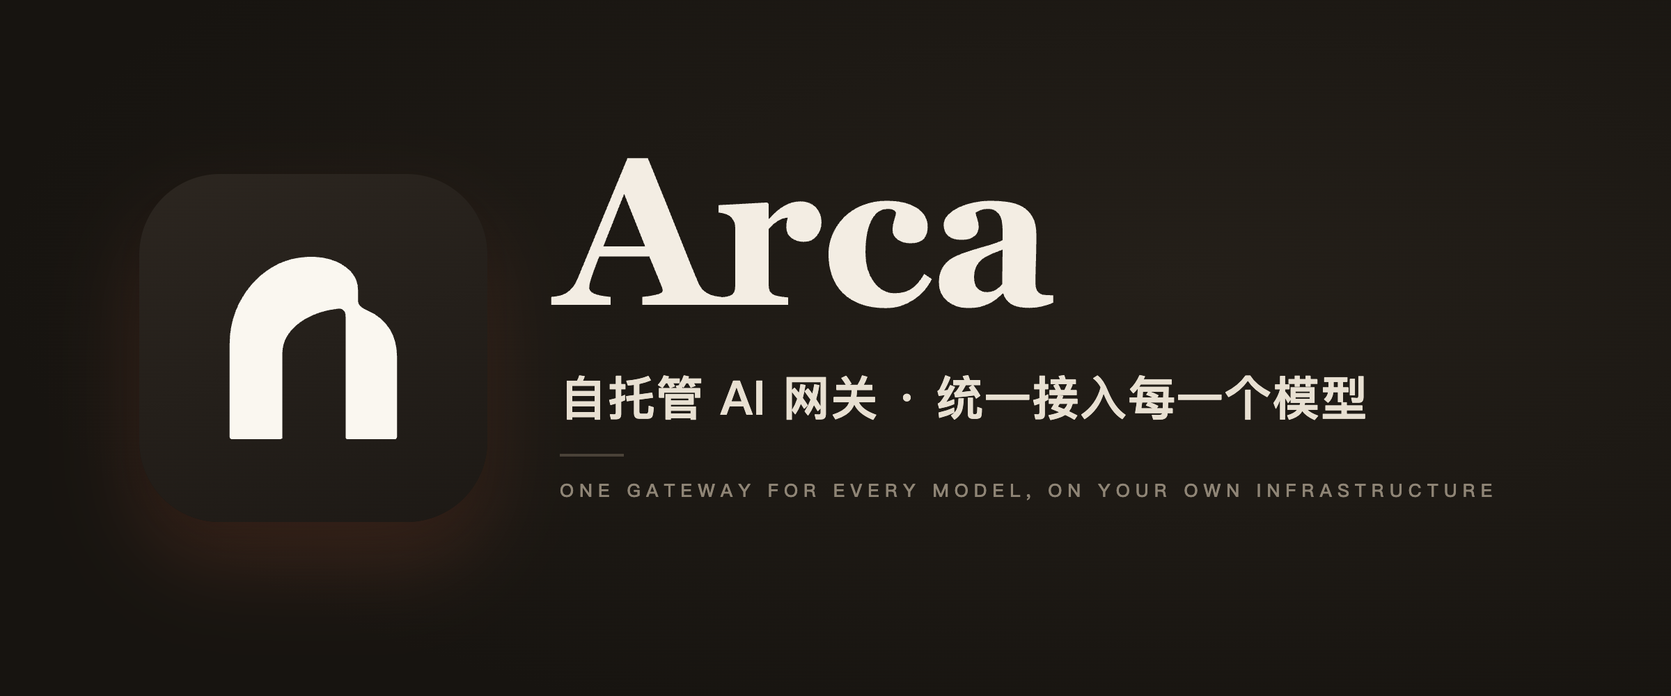
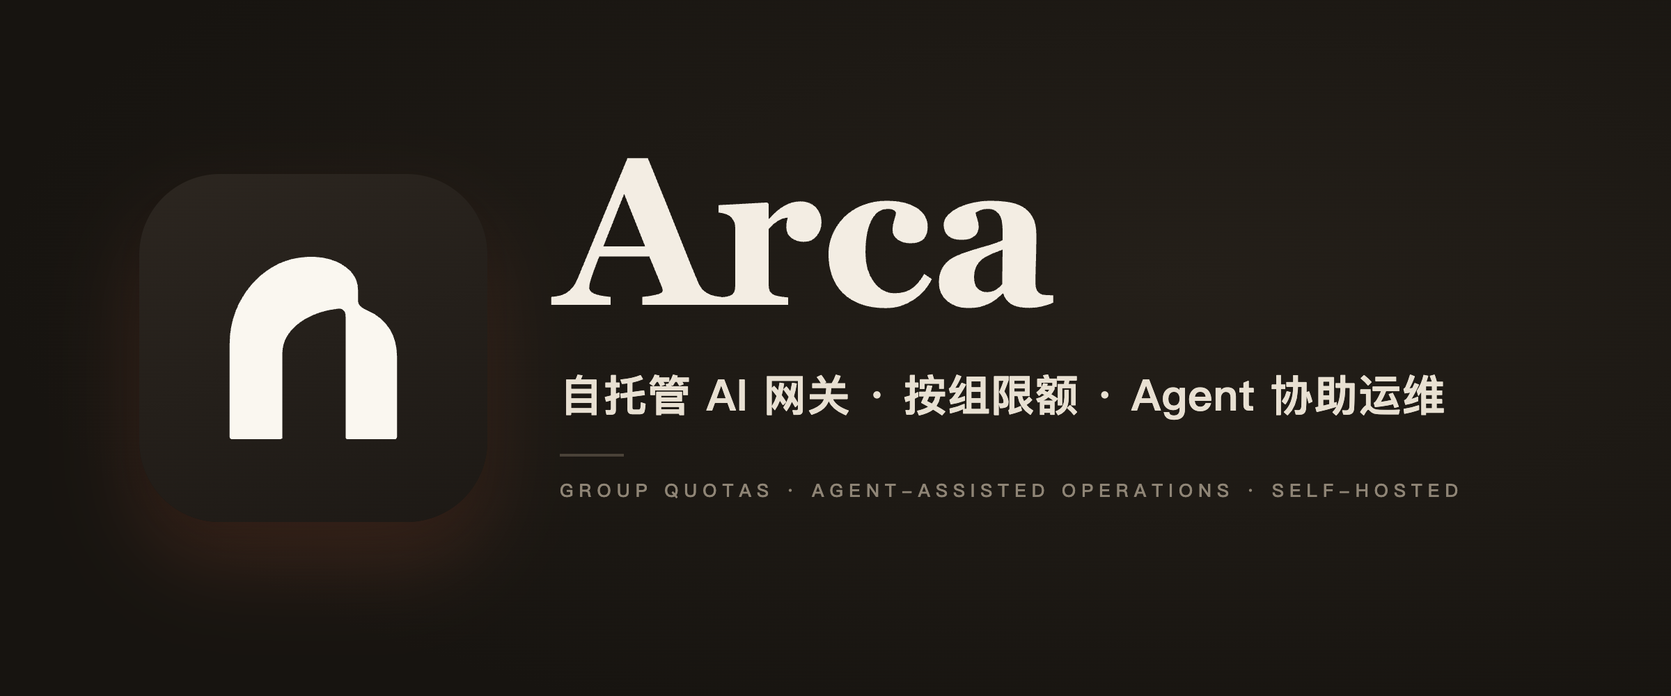
docs(readme): present Arca's differences from Aether
README (zh/en) now leads with the two things that set Arca apart: group
quotas instead of commercial billing, and feedback plus an admin MCP for
agent-assisted operations. It adds a comparison table with Aether, a
quota screenshot, a status note for features still in acceptance, and
refreshes the hero banner and architecture diagram (Gemini native is an
upstream adapter, not a client entry point).

Changed region(s): [[0.3438, 0.527, 0.875, 0.62], [0.3438, 0.682, 0.9062, 0.713]]

diff --git a/README.en.md b/README.en.md
@@ -1,12 +1,12 @@
 <p align="center">
   <picture>
     <source media="(prefers-color-scheme: dark)" srcset="docs/assets/hero-dark.png" />
-    <img src="docs/assets/hero-light.png" alt="Arca — a self-hosted AI gateway" width="100%" />
+    <img src="docs/assets/hero-light.png" alt="Arca — a self-hosted AI gateway with group quotas and agent-assisted operations" width="100%" />
   </picture>
 </p>
 
 <p align="center">
-  One entry point for Claude, OpenAI, Gemini and their CLI clients — authentication, conversion, scheduling and quotas, all on your own servers.
+  One entry point for Claude, OpenAI and Gemini. Quotas are allocated to users and groups; day-to-day operations are handled through feedback and your own agent.
 </p>
 
 <p align="center">
@@ -21,10 +21,9 @@
 
 <br />
 
-> **One endpoint, every model.**
-> Models now come from many places: official APIs, subscription accounts, third-party compatible services — each with its own protocol, quota and reliability.
-> Clients just want the OpenAI, Claude or Gemini interface they already know; operators want one controllable, auditable entry point.
-> Arca sits between the two and keeps routing, conversion, limits and metering in one place.
+> **Quotas for people, operations for agents.**
+> A team using AI internally doesn't need a checkout counter. It needs three answers: who may use which models, how much can be spent in a month, and who looks into it when something breaks.
+> Arca removes top-ups and payments and puts quotas on users and groups; user feedback, an admin MCP and your own agent then take over routine diagnosis and maintenance.
 
 <p align="center">
   <img src="docs/assets/overview.jpg" alt="Arca operations overview: QPS, SLA, time to first token, concurrency and queues" width="88%" />
@@ -35,28 +34,61 @@
 <table>
   <tr>
     <td width="33%" valign="top">
-      <h3>Protocol-agnostic</h3>
-      OpenAI Chat / Responses, Claude Messages and Gemini <code>generateContent</code> are all first-class entry points, with two-way conversion between them covering streaming, tool calls and reasoning content. Same-protocol requests pass through natively.
+      <h3>Quotas, not commerce</h3>
+      No top-ups, plans, payments or referral rewards. Administrators set USD budgets per user and per group — rolling five hours, weekly and monthly — and can go down to a single model when needed.
     </td>
     <td width="33%" valign="top">
-      <h3>Reliable and controllable</h3>
-      Candidates are ranked by priority, health and cache affinity; failures retry and fail over automatically. Subscription-style upstreams are managed as account pools with live quota and status, and unavailable accounts are dropped automatically.
+      <h3>Agents in the loop</h3>
+      Users file feedback in the app; an agent reads and diagnoses it through the admin MCP, and changes only happen after a preview and a single-use confirmation. Authority is always "current user role ∩ key scopes".
     </td>
     <td width="33%" valign="top">
-      <h3>Self-hosted</h3>
-      One Rust binary serves both the API and the frontend. It needs PostgreSQL; Redis is optional. Data and keys stay in your own environment — generated and held by you.
+      <h3>Protocol-agnostic, dependable</h3>
+      Clients use OpenAI Responses, Claude Messages or OpenAI Chat; the gateway converts and schedules to any upstream, retrying and failing over when requests fail.
     </td>
   </tr>
 </table>
 
+## How Arca differs from Aether
+
+Arca is derived from [Aether](https://github.com/fawney19/Aether), with deliberately different goals:
+
+| | Aether | Arca |
+| --- | --- | --- |
+| Use case | Built-in commercial features, can be operated publicly | Internal team use, quotas allocated by administrators |
+| Quota model | Wallet balance, plans and paid daily quotas | USD budgets per group and per user, with optional model-family or per-model sub-pools |
+| Payments and billing | Top-ups, refunds, redeem codes, plan purchase, referral rewards, payment gateways | Removed; the routes return 404 in internal mode. Upstream cost and usage are still recorded for accounting |
+| Operations | Manual work in the console | User feedback plus an admin MCP; agents assist within permission, preview and confirmation limits |
+| Client protocols | OpenAI, Claude and Gemini entry points | Primarily OpenAI Responses (including Codex), Claude Messages and OpenAI Chat; native Gemini is an upstream adapter |
+
+> Existing financial history is neither deleted nor migrated; internal requests simply are not charged. See [internal gateway mode](docs/operations/internal-gateway.md).
+
 ## Features
+
+### Group quotas
+
+- **USD budgets**: each group and each user can have rolling five-hour, weekly and monthly total budgets, with sub-pools per model family or per model (including daily limits).
+- **Clear inheritance**: a personal allocation fully replaces the group allocation; across groups, the larger value wins per window; `unlimited` is an explicit exemption.
+- **Grants and quotas are separate**: a quota entry never grants model access; model permissions are configured on users and groups.
+- **Concurrency-safe**: admission and reservation happen in PostgreSQL; policy writes carry a version check, so a stale write returns 409 instead of overwriting someone else's change.
+
+<p align="center">
+  <img src="docs/assets/quota.jpg" alt="User benefits: five-hour, weekly and monthly allocations per group and per user" width="88%" />
+</p>
+
+### Feedback-driven, agent-assisted operations
+
+- **User feedback**: an issue-style discussion with category, description, linked model or request, public or private visibility and an append-only history; users and administrators each have their own entry. See [feedback](docs/operations/feedback.md).
+- **Request diagnostics**: feedback can carry a request-diagnostics summary, which requires both feedback-write and monitoring-read permission. See [request diagnostics](docs/operations/request-diagnostics.md).
+- **Admin MCP**: a built-in `/mcp` endpoint covers users, grants, providers, models, routing, pools, statistics and health; writes are preview-only by default and execution needs a single-use confirmation ticket bound to the exact arguments. See [Agent MCP](docs/operations/agent-mcp.md).
+- **Bounded agents**: no arbitrary URL, SQL, shell or container commands; credential plaintext is never returned; logs and announcements are treated as untrusted data; feedback content is never execution authority.
+- **Model compatibility tests**: run synthetic connectivity and compatibility tests against provider models through the MCP. See [model compatibility](docs/operations/model-compatibility.md).
 
 ### Unified access and protocol conversion
 
-- **Multiple protocol entry points**: OpenAI Chat / Responses / Realtime, Claude Messages, Gemini `generateContent`, plus Embeddings, Rerank, image and video tasks, and Gemini Files.
-- **Two-way conversion**: requests and responses convert between OpenAI, Claude and Gemini; the conversion contract and field coverage matrix are published in [docs/api](docs/api/).
+- **Client protocols**: OpenAI Responses (including Codex), Claude Messages, OpenAI Chat Completions; Embeddings, Rerank and others are in [docs/api](docs/api/).
+- **Two-way conversion**: requests and responses convert between OpenAI, Claude and Gemini, including streaming, tool calls and reasoning content; the conversion contract and field coverage matrix are published in [docs/api](docs/api/).
 - **Per-model interface restriction**: restrict a model mapping to specific interface types and endpoints — for example, make an upstream model use only the native Gemini interface and bypass an incomplete compatibility layer.
-- **Model catalog and mappings**: global models are decoupled from each provider's real model names, with aliases, tiered pricing and model directives.
+- **Model catalog and mappings**: global models are decoupled from each provider's real model names, with aliases and tiered pricing.
 
 ### Scheduling and reliability
 
@@ -70,35 +102,23 @@
   <img src="docs/assets/health.jpg" alt="Health monitoring from endpoint, model and provider perspectives" width="49%" />
 </p>
 
-### Multi-tenancy, quotas and cost
+### Operations and security
 
-- **Users, groups and API keys** with per-model grants, IP allow/deny lists and audit logs.
-- **Quotas**: rolling and calendar request caps and shared monthly cost budgets; users without an allocation are denied by default. See [internal gateway mode](docs/operations/internal-gateway.md).
-- **Wallets and billing**: billing plans, wallets, referral rewards and payment gateways, plus cost and cache-savings analysis.
-
-### Operations and integrations
-
-- **Admin console**: providers and endpoints, models, routing strategies, users and keys, usage and cost, system settings; Chinese and English UI.
-- **Admin MCP**: a built-in `/mcp` endpoint using user-bound admin keys, with preview-and-confirm for writes. See [Agent MCP](docs/operations/agent-mcp.md).
 - **One-step Linux setup**: generate a one-time command on the API keys page to configure Codex CLI / Claude Code on a server. See the [setup guide](docs/operations/linux-client-setup.md).
 - **Tunnel proxy node**: deployed on an overseas VPS to relay outbound traffic. See the [Tunnel docs](apps/aether-tunnel/README.md).
-- **Observability**: per-request usage and timing, request diagnostics, request body viewer, Prometheus metrics.
-
-### Security
-
-- Upstream credentials and sensitive settings are stored encrypted; backups use an encrypted format with key identifiers and support [offline restore](docs/configuration.md#s3-备份离线恢复).
-- Body-size and concurrency budgets, outbound DNS and proxy policy, PII redaction and restoration, LDAP and OAuth sign-in.
+- **Observability**: per-request usage and timing, request body viewer, Prometheus metrics; audit logs and IP allow/deny lists.
+- **Security**: upstream credentials are stored encrypted; backups use an encrypted format with key identifiers and support [offline restore](docs/configuration.md#s3-备份离线恢复); body-size and concurrency budgets, outbound DNS and proxy policy, PII redaction and restoration, LDAP and OAuth sign-in.
 
 ## Architecture
 
 <p align="center">
   <picture>
     <source media="(prefers-color-scheme: dark)" srcset="docs/architecture/architecture-dark.svg" />
-    <img src="docs/architecture/architecture-light.svg" alt="Arca architecture: clients pass through the gateway for authentication, resolution, scheduling, conversion and metering before reaching upstreams" width="100%" />
+    <img src="docs/architecture/architecture-light.svg" alt="Arca architecture: clients pass through the gateway for authentication, resolution, scheduling, conversion and quota metering before reaching upstreams" width="100%" />
   </picture>
 </p>
 
-A request passes through: authentication and admission → model resolution → candidate selection and failover → protocol conversion (if needed) → usage and billing. Besides official APIs, the gateway ships provider templates for `codex`, `claude_code`, `gemini_cli`, `antigravity`, `vertex_ai`, `kiro`, `chatgpt_web`, `grok`, `windsurf` and `opencode_go`, and supports any OpenAI-, Claude- or Gemini-compatible custom endpoint.
+A request passes through: authentication and admission → model resolution → candidate selection and failover → protocol conversion (if needed) → quota and usage. Besides official APIs, the gateway ships provider templates for `codex`, `claude_code`, `gemini_cli`, `antigravity`, `vertex_ai`, `kiro`, `chatgpt_web`, `grok`, `windsurf` and `opencode_go`, and supports any OpenAI-, Claude- or Gemini-compatible custom endpoint.
 
 ## Quick start
 
@@ -119,7 +139,7 @@ cp .env.example .env && chmod 600 .env
 docker compose up -d
 ```
 
-Open `http://localhost:8084`, sign in with `ADMIN_USERNAME` / `ADMIN_PASSWORD` from `.env`, then add providers, models and API keys. When upgrading, do not replace the generated secrets; the database schema migrates automatically on start, and `make db-status` lets you inspect it first.
+Open `http://localhost:8084`, sign in with `ADMIN_USERNAME` / `ADMIN_PASSWORD` from `.env`, then add providers, models, groups and quotas, and issue API keys to users. When upgrading, do not replace the generated secrets; the database schema migrates automatically on start, and `make db-status` lets you inspect it first.
 
 More: [configuration reference](docs/configuration.md) (Chinese) · [release notes and building your own image](docs/ARCA.md) · [Linux client setup](docs/operations/linux-client-setup.md).
 
@@ -135,9 +155,13 @@ npm ci
 VITE_DEMO_MODE=true npm run dev
 ```
 
-Open the address printed in the terminal, sign out of the default demo user, then sign in as `admin@demo.arca.io` / `demo123` for the administrator view. All data is simulated and no real calls are made.
+Open the address printed in the terminal, sign out of the default demo user, then sign in as `admin@demo.arca.io` / `demo123` for the administrator view. All data is simulated and no real calls are made; the feedback and MCP pages have no mock data in demo mode.
 
 </details>
+
+## Status
+
+Internal gateway mode (group quotas), user feedback and the admin MCP are still in development and acceptance, and have not been validated in production. Known remaining work is listed in the [internal gateway document](docs/operations/internal-gateway.md#remaining-roadmap). Read the [release notes](docs/ARCA.md) before upgrading.
 
 ## Documentation
 
@@ -145,8 +169,8 @@ Open the address printed in the terminal, sign out of the default demo user, the
 | --- | --- |
 | Configuration, environment variables, S3 backup restore | [docs/configuration.md](docs/configuration.md) (Chinese) |
 | Release notes and building your own image | [docs/ARCA.md](docs/ARCA.md) |
-| Internal gateway mode · admin MCP · routing and failover | [internal-gateway](docs/operations/internal-gateway.md) · [agent-mcp](docs/operations/agent-mcp.md) · [routing-failover](docs/operations/routing-failover.md) |
-| Model compatibility testing · request diagnostics | [model-compatibility](docs/operations/model-compatibility.md) · [request-diagnostics](docs/operations/request-diagnostics.md) |
+| Internal gateway mode · user feedback · admin MCP | [internal-gateway](docs/operations/internal-gateway.md) · [feedback](docs/operations/feedback.md) · [agent-mcp](docs/operations/agent-mcp.md) |
+| Routing and failover · model compatibility · request diagnostics | [routing-failover](docs/operations/routing-failover.md) · [model-compatibility](docs/operations/model-compatibility.md) · [request-diagnostics](docs/operations/request-diagnostics.md) |
 | Protocols: Embeddings · Rerank · Responses WebSocket | [embeddings](docs/api/embeddings.md) · [rerank](docs/api/rerank.md) · [WebSocket-Mode](docs/WebSocket-Mode.md) |
 | Format conversion contract and coverage | [passthrough contract](docs/api/format-passthrough-contract.md) · [field matrix](docs/api/format-field-coverage-matrix.md) · [interface definitions](docs/api/provider-interface-definitions.md) |
 | Runbooks | [Redis runtime](docs/operations/redis-runtime-runbook.md) · [TLS fingerprint](docs/operations/tls-fingerprint-capture.md) · [all](docs/operations/) |

diff --git a/README.md b/README.md
@@ -1,12 +1,12 @@
 <p align="center">
   <picture>
     <source media="(prefers-color-scheme: dark)" srcset="docs/assets/hero-dark.png" />
-    <img src="docs/assets/hero-light.png" alt="Arca — 自托管 AI 网关" width="100%" />
+    <img src="docs/assets/hero-light.png" alt="Arca — 自托管 AI 网关，按组限额，Agent 协助运维" width="100%" />
   </picture>
 </p>
 
 <p align="center">
-  一个入口，统一接入 Claude、OpenAI、Gemini 与各类 CLI 客户端——鉴权、转换、调度、配额，都在你自己的服务器上。
+  一个入口接入 Claude、OpenAI、Gemini；额度按用户和用户组分配，日常运维交给反馈与你的 Agent。
 </p>
 
 <p align="center">
@@ -21,10 +21,9 @@
 
 <br />
 
-> **One endpoint, every model.**
-> 模型的来源越来越多：官方 API、订阅账号、各家兼容服务——协议不同，额度不同，稳定性也不同。
-> 客户端只想用熟悉的 OpenAI、Claude、Gemini 接口，运维只想要一个可控、可审计的入口。
-> Arca 站在两者之间，把选路、转换、限额和计量收在同一个地方。
+> **Quotas for people, operations for agents.**
+> 团队内部用 AI，缺的不是收银台，而是三件事：谁能用哪些模型、一个月最多花多少、出了问题谁来看。
+> Arca 去掉了充值与支付，把额度落到用户和用户组；再让用户反馈、管理 MCP 和你自己的 Agent 接手日常排查与维护。
 
 <p align="center">
   <img src="docs/assets/overview.jpg" alt="Arca 运维总览：QPS、SLA、首字延迟、并发与队列" width="88%" />
@@ -35,28 +34,61 @@
 <table>
   <tr>
     <td width="33%" valign="top">
-      <h3>协议无关</h3>
-      OpenAI Chat / Responses、Claude Messages、Gemini <code>generateContent</code> 都是一等入口，并在三者之间双向转换，覆盖流式、工具调用与推理内容。同协议请求原生直通，不做多余改写。
+      <h3>没有商业化，只有额度</h3>
+      没有充值、套餐、支付与邀请奖励。管理员按用户和用户组设置美元预算：滚动 5 小时、每周、每月，必要时再细到单个模型。
     </td>
     <td width="33%" valign="top">
-      <h3>稳定可控</h3>
-      按优先级、健康度与缓存亲和选路，失败自动重试并切换候选；订阅类上游用号池管理，额度与状态实时可见，不可用账号自动摘除。
+      <h3>Agent 参与运维</h3>
+      用户在应用里提交反馈，Agent 通过管理 MCP 读取、诊断，并在预览与单次确认之后执行变更。权限始终是「当前用户角色 ∩ Key 范围」。
     </td>
     <td width="33%" valign="top">
-      <h3>自托管</h3>
-      一个 Rust 二进制同时提供 API 与前端，依赖 PostgreSQL，Redis 可选。数据与密钥都在你自己的环境里，由你生成、由你保管。
+      <h3>协议无关，稳定可控</h3>
+      客户端使用 OpenAI Responses、Claude Messages 或 OpenAI Chat，网关负责转换并调度到任意上游，失败时自动重试与切换。
     </td>
   </tr>
 </table>
 
+## 与 Aether 的不同
+
+Arca 源自 [Aether](https://github.com/fawney19/Aether)，两者在定位上刻意不同：
+
+| | Aether | Arca |
+| --- | --- | --- |
+| 使用场景 | 内置商业化能力，可对外运营 | 团队内部使用，管理员统一分配额度 |
+| 额度模型 | 钱包余额、套餐与付费日额度 | 用户组与个人的美元预算，可按模型家族或单模型设子池 |
+| 支付与计费 | 充值、退款、兑换码、套餐购买、邀请奖励、支付网关 | 已移除，相关接口在内部模式下返回 404；仍记录上游成本与用量用于核算 |
+| 运维方式 | 在控制台手动操作 | 用户反馈 + 管理 MCP，Agent 在权限、预览与确认的约束下协助 |
+| 客户端协议 | OpenAI、Claude、Gemini 多种入口 | 以 OpenAI Responses（含 Codex）、Claude Messages、OpenAI Chat 为主；Gemini 原生接口作为上游适配 |
+
+> 已有的历史财务数据不会被删除或迁移，内部请求只是不再扣费。细节见 [内部网关模式](docs/operations/internal-gateway.md)。
+
 ## 功能
+
+### 用户分组限额
+
+- **美元预算**：每个用户组和个人都可以设置滚动 5 小时、每周、每月的总额度，并按模型家族或单模型划出子池（可含每日额度）。
+- **继承规则明确**：个人配额整体替换所属组的配额；多个组之间，每个时间窗口取较大值；`unlimited` 是显式豁免。
+- **授权与额度分离**：额度条目不会授予模型访问权，模型权限在用户和用户组上单独配置。
+- **并发安全**：准入与预留在 PostgreSQL 中完成；策略写入带版本检查，过期写入返回 409，不会覆盖他人的修改。
+
+<p align="center">
+  <img src="docs/assets/quota.jpg" alt="用户权益：按用户组与个人分配 5 小时、每周、每月额度" width="88%" />
+</p>
+
+### 反馈驱动、Agent 辅助的运维
+
+- **用户反馈**：工单式的问题讨论，包含类别、描述、关联模型或请求、公开或私有可见性与追加式历史；用户与管理员各有入口，见[反馈文档](docs/operations/feedback.md)。
+- **请求诊断**：反馈可附带请求诊断摘要，需要同时具备反馈写入与监控读取权限，见[请求诊断](docs/operations/request-diagnostics.md)。
+- **管理 MCP**：网关内置 `/mcp`，覆盖用户、授权、提供商、模型、路由、号池、统计、健康等管理操作；写操作默认只预览，执行需要绑定参数的单次确认票据，见 [Agent MCP](docs/operations/agent-mcp.md)。
+- **有边界的 Agent**：没有任意 URL、SQL、Shell 或容器命令；凭据明文不会返回；日志、公告等内容一律视为不可信数据；反馈内容永远不是执行授权。
+- **模型兼容性测试**：通过 MCP 对提供商模型运行合成连通与兼容性测试，见[模型兼容性](docs/operations/model-compatibility.md)。
 
 ### 统一接入与协议转换
 
-- **多协议入口**：OpenAI Chat / Responses / Realtime、Claude Messages、Gemini `generateContent`，以及 Embeddings、Rerank、图像、视频任务与 Gemini Files。
-- **双向转换**：请求与响应在 OpenAI、Claude、Gemini 之间互转；转换契约与字段覆盖矩阵公开在 [docs/api](docs/api/)。
+- **客户端协议**：OpenAI Responses（含 Codex）、Claude Messages、OpenAI Chat Completions；Embeddings、Rerank 等接口见 [docs/api](docs/api/)。
+- **双向转换**：在 OpenAI、Claude、Gemini 之间转换请求与响应，覆盖流式、工具调用与推理内容；转换契约与字段覆盖矩阵公开在 [docs/api](docs/api/)。
 - **按模型限定接口**：在模型映射上指定允许的接口类型与端点，例如让某个上游模型只走 Gemini 原生接口，避开不够完善的兼容层。
-- **模型目录与映射**：全局模型与各提供商的真实模型名解耦，支持别名、阶梯定价与调用指令。
+- **模型目录与映射**：全局模型与各提供商的真实模型名解耦，支持别名与阶梯定价。
 
 ### 调度与稳定性
 
@@ -70,35 +102,23 @@
   <img src="docs/assets/health.jpg" alt="健康监控：端点、模型、提供商三个视角" width="49%" />
 </p>
 
-### 多租户、配额与成本
+### 运维与安全
 
-- **用户、用户组、API Key** 三级管理，按模型授权，支持 IP 黑白名单与审计日志。
-- **配额**：滚动与日历请求上限、共享月度成本预算；未分配额度的用户默认拒绝，见[内部网关模式](docs/operations/internal-gateway.md)。
-- **钱包与计费**：计费方案、钱包、邀请奖励与支付网关，成本与缓存节省分析。
-
-### 运维与集成
-
-- **管理控制台**：提供商与端点、模型、调度策略、用户与 Key、用量与成本、系统设置，中英文界面。
-- **管理 MCP**：内置 `/mcp` 端点，使用绑定用户的管理 Key，写操作需预览确认，见 [Agent MCP](docs/operations/agent-mcp.md)。
 - **Linux 一键接入**：在 API 密钥页生成一次性命令，把 Codex CLI / Claude Code 配到服务器上，见[接入指南](docs/operations/linux-client-setup.md)。
 - **Tunnel 代理节点**：部署在海外 VPS 上，为网关中转出站流量，见 [Tunnel 文档](apps/aether-tunnel/README.md)。
-- **可观测**：请求级用量与耗时、请求诊断、请求体查看、Prometheus 指标。
-
-### 安全
-
-- 上游凭据与敏感配置加密存储，备份使用带密钥标识的加密格式，支持[离线恢复](docs/configuration.md#s3-备份离线恢复)。
-- 请求体与并发预算、出站 DNS 与代理策略、PII 脱敏与恢复、LDAP 与 OAuth 登录。
+- **可观测**：请求级用量与耗时、请求体查看、Prometheus 指标；审计日志与 IP 黑白名单。
+- **安全**：上游凭据加密存储，备份使用带密钥标识的加密格式并支持[离线恢复](docs/configuration.md#s3-备份离线恢复)；请求体与并发预算、出站 DNS 与代理策略、PII 脱敏与恢复、LDAP 与 OAuth 登录。
 
 ## 架构
 
 <p align="center">
   <picture>
     <source media="(prefers-color-scheme: dark)" srcset="docs/architecture/architecture-dark.svg" />
-    <img src="docs/architecture/architecture-light.svg" alt="Arca 架构：客户端经网关完成鉴权、解析、调度、转换与计量后到达上游" width="100%" />
+    <img src="docs/architecture/architecture-light.svg" alt="Arca 架构：客户端经网关完成鉴权、解析、调度、转换与额度计量后到达上游" width="100%" />
   </picture>
 </p>
 
-请求依次经过：鉴权与准入 → 模型解析 → 候选选择与故障转移 → 协议转换（如需要）→ 用量与计费。官方 API 之外，网关内置 `codex`、`claude_code`、`gemini_cli`、`antigravity`、`vertex_ai`、`kiro`、`chatgpt_web`、`grok`、`windsurf`、`opencode_go` 等提供商模板，也支持任意 OpenAI / Claude / Gemini 兼容的自定义端点。
+请求依次经过：鉴权与准入 → 模型解析 → 候选选择与故障转移 → 协议转换（如需要）→ 额度与用量。官方 API 之外，网关内置 `codex`、`claude_code`、`gemini_cli`、`antigravity`、`vertex_ai`、`kiro`、`chatgpt_web`、`grok`、`windsurf`、`opencode_go` 等提供商模板，也支持任意 OpenAI / Claude / Gemini 兼容的自定义端点。
 
 ## 快速开始
 
@@ -119,7 +139,7 @@ cp .env.example .env && chmod 600 .env
 docker compose up -d
 ```
 
-打开 `http://localhost:8084`，用 `.env` 中的 `ADMIN_USERNAME` / `ADMIN_PASSWORD` 登录，依次添加提供商、模型与 API Key 即可。升级时不要替换已生成的密钥；数据库结构会在启动时自动迁移，想先检查可运行 `make db-status`。
+打开 `http://localhost:8084`，用 `.env` 中的 `ADMIN_USERNAME` / `ADMIN_PASSWORD` 登录，依次添加提供商、模型、用户组与额度，再为用户发放 API Key。升级时不要替换已生成的密钥；数据库结构会在启动时自动迁移，想先检查可运行 `make db-status`。
 
 更多细节见 [配置参考](docs/configuration.md) · [版本说明与自建镜像](docs/ARCA.md) · [Linux 客户端接入](docs/operations/linux-client-setup.md)。
 
@@ -135,9 +155,13 @@ npm ci
 VITE_DEMO_MODE=true npm run dev
 ```
 
-打开终端里给出的地址，先退出默认的演示用户，再用 `admin@demo.arca.io` / `demo123` 登录管理员视角。所有数据均为模拟，不会产生真实调用。
+打开终端里给出的地址，先退出默认的演示用户，再用 `admin@demo.arca.io` / `demo123` 登录管理员视角。所有数据均为模拟，不会产生真实调用；反馈与 MCP 页面在演示模式下没有模拟数据。
 
 </details>
+
+## 状态
+
+内部网关模式（用户分组限额）、用户反馈与管理 MCP 仍处于开发与验收阶段，尚未经过生产环境验证，已知的剩余工作列在[内部网关文档](docs/operations/internal-gateway.md#remaining-roadmap)中。升级前请先阅读[版本说明](docs/ARCA.md)。
 
 ## 文档
 
@@ -145,8 +169,8 @@ VITE_DEMO_MODE=true npm run dev
 | --- | --- |
 | 配置、环境变量、S3 备份恢复 | [docs/configuration.md](docs/configuration.md) |
 | 版本说明与自建镜像 | [docs/ARCA.md](docs/ARCA.md) |
-| 内部网关模式 · 管理 MCP · 路由与故障转移 | [internal-gateway](docs/operations/internal-gateway.md) · [agent-mcp](docs/operations/agent-mcp.md) · [routing-failover](docs/operations/routing-failover.md) |
-| 模型兼容性测试 · 请求诊断 | [model-compatibility](docs/operations/model-compatibility.md) · [request-diagnostics](docs/operations/request-diagnostics.md) |
+| 内部网关模式 · 用户反馈 · 管理 MCP | [internal-gateway](docs/operations/internal-gateway.md) · [feedback](docs/operations/feedback.md) · [agent-mcp](docs/operations/agent-mcp.md) |
+| 路由与故障转移 · 模型兼容性 · 请求诊断 | [routing-failover](docs/operations/routing-failover.md) · [model-compatibility](docs/operations/model-compatibility.md) · [request-diagnostics](docs/operations/request-diagnostics.md) |
 | 协议：Embeddings · Rerank · Responses WebSocket | [embeddings](docs/api/embeddings.md) · [rerank](docs/api/rerank.md) · [WebSocket-Mode](docs/WebSocket-Mode.md) |
 | 格式转换契约与字段覆盖 | [passthrough 契约](docs/api/format-passthrough-contract.md) · [字段矩阵](docs/api/format-field-coverage-matrix.md) · [接口定义](docs/api/provider-interface-definitions.md) |
 | 运维手册 | [Redis 运行时](docs/operations/redis-runtime-runbook.md) · [TLS 指纹](docs/operations/tls-fingerprint-capture.md) · [全部](docs/operations/) |
